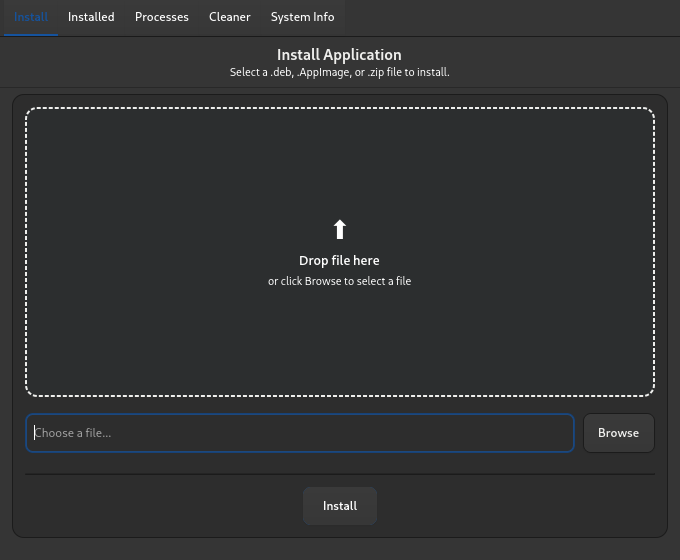
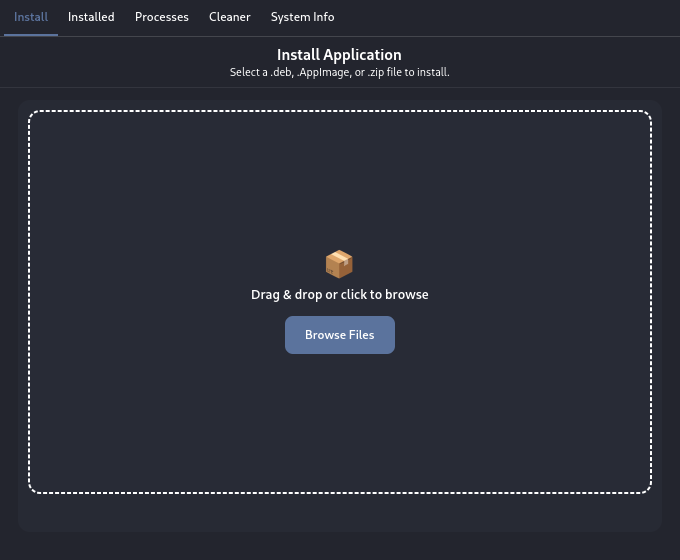
feat: implement automatic system theme synchronization and automate version tagging in release workflow

diff --git a/src/ui/style.css b/src/ui/style.css
@@ -140,10 +140,11 @@ scrolledwindow {
     border-radius: 11px;
 }
 
-.install-progress trough {
-    border-radius: 11px;
-    min-height: 22px;
-    background-color: alpha(@theme_dim_label_color, 0.08);
+progressbar.install-progress trough {
+    border-radius: 10px;
+    min-height: 20px;
+    background-color: alpha(@theme_fg_color, 0.08);
+    border: 1px solid alpha(@theme_fg_color, 0.05);
 }
 
 .install-progress progress {
@@ -200,17 +201,17 @@ frame, .drop-zone, list, row {
 
 .secondary-button {
     padding: 6px 20px;
-    background-color: rgba(255, 255, 255, 0.08);
-    color: #ffffff;
+    background-color: alpha(@theme_fg_color, 0.08);
+    color: @theme_fg_color;
     font-weight: 600;
     font-size: 12px;
-    border: 1px solid rgba(255, 255, 255, 0.12);
+    border: 1px solid alpha(@theme_fg_color, 0.12);
     border-radius: 8px;
     min-height: 26px;
 }
 
 .secondary-button:hover {
-    background-color: rgba(255, 255, 255, 0.15);
+    background-color: alpha(@theme_fg_color, 0.15);
 }
 
 .danger-button {
@@ -573,7 +574,7 @@ headerbar.custom-headerbar {
 /* Terminal Log Panel styling */
 .install-log-scroll {
     margin-top: 12px;
-    border: 1px solid rgba(255, 255, 255, 0.08);
+    border: 1px solid alpha(@theme_fg_color, 0.08);
     border-radius: 6px;
     background-color: #101216;
 }

diff --git a/src/ui/app.rs b/src/ui/app.rs
@@ -81,8 +81,12 @@ impl AppProUI {
             icon_theme.add_search_path("/home/kali/Desktop/app-pro/assets");
             window.set_icon_name(Some("image"));
         }
+        Self::setup_theme_sync();
 
-
+        // Follow system dark theme preference
+        if let Some(settings) = gtk4::Settings::default() {
+            settings.set_gtk_application_prefer_dark_theme(true);
+        }
 
         Self::apply_css(&window);
 
@@ -115,6 +119,92 @@ impl AppProUI {
                 &provider,
                 gtk4::STYLE_PROVIDER_PRIORITY_APPLICATION,
             );
+        }
+    }
+
+    fn is_system_dark_mode() -> bool {
+        // 1. Try reading from GSettings interface schema if available
+        let schema_exists = gtk4::gio::SettingsSchemaSource::default()
+            .and_then(|source| source.lookup("org.gnome.desktop.interface", true))
+            .is_some();
+
+        if schema_exists {
+            let settings = gtk4::gio::Settings::new("org.gnome.desktop.interface");
+            let color_scheme = settings.string("color-scheme");
+            if color_scheme.contains("dark") {
+                return true;
+            }
+            let theme_name = settings.string("gtk-theme");
+            if theme_name.to_lowercase().contains("dark") {
+                return true;
+            }
+        }
+
+        // 2. Fallback to executing gsettings CLI commands
+        if let Ok(output) = std::process::Command::new("gsettings")
+            .args(["get", "org.gnome.desktop.interface", "color-scheme"])
+            .output()
+        {
+            let scheme = String::from_utf8_lossy(&output.stdout).to_lowercase();
+            if scheme.contains("dark") {
+                return true;
+            }
+        }
+
+        if let Ok(output) = std::process::Command::new("gsettings")
+            .args(["get", "org.gnome.desktop.interface", "gtk-theme"])
+            .output()
+        {
+            let theme = String::from_utf8_lossy(&output.stdout).to_lowercase();
+            if theme.contains("dark") {
+                return true;
+            }
+        }
+
+        // 3. Fallback to GtkSettings defaults
+        if let Some(gtk_settings) = gtk4::Settings::default() {
+            if let Some(theme_name) = gtk_settings.gtk_theme_name() {
+                if theme_name.to_lowercase().contains("dark") {
+                    return true;
+                }
+            }
+        }
+
+        false
+    }
+
+    fn setup_theme_sync() {
+        let schema_exists = gtk4::gio::SettingsSchemaSource::default()
+            .and_then(|source| source.lookup("org.gnome.desktop.interface", true))
+            .is_some();
+
+        if schema_exists {
+            let gsettings = gtk4::gio::Settings::new("org.gnome.desktop.interface");
+            let gtk_settings = gtk4::Settings::default().unwrap();
+            
+            // Set initial state
+            gtk_settings.set_gtk_application_prefer_dark_theme(Self::is_system_dark_mode());
+
+            // Connect signal to listen to changes dynamically
+            gsettings.connect_changed(None, move |_, key| {
+                if key == "color-scheme" || key == "gtk-theme" {
+                    if let Some(s) = gtk4::Settings::default() {
+                        s.set_gtk_application_prefer_dark_theme(Self::is_system_dark_mode());
+                    }
+                }
+            });
+        } else {
+            // Fallback for non-GNOME/XFCE environments where schema is missing
+            if let Some(gtk_settings) = gtk4::Settings::default() {
+                gtk_settings.set_gtk_application_prefer_dark_theme(Self::is_system_dark_mode());
+
+                gtk_settings.connect_gtk_theme_name_notify(move |s| {
+                    if let Some(theme_name) = s.gtk_theme_name() {
+                        let is_dark = theme_name.to_lowercase().contains("dark");
+                        s.set_gtk_application_prefer_dark_theme(is_dark);
+                    }
+                });
+            }
         }
     }
 }
